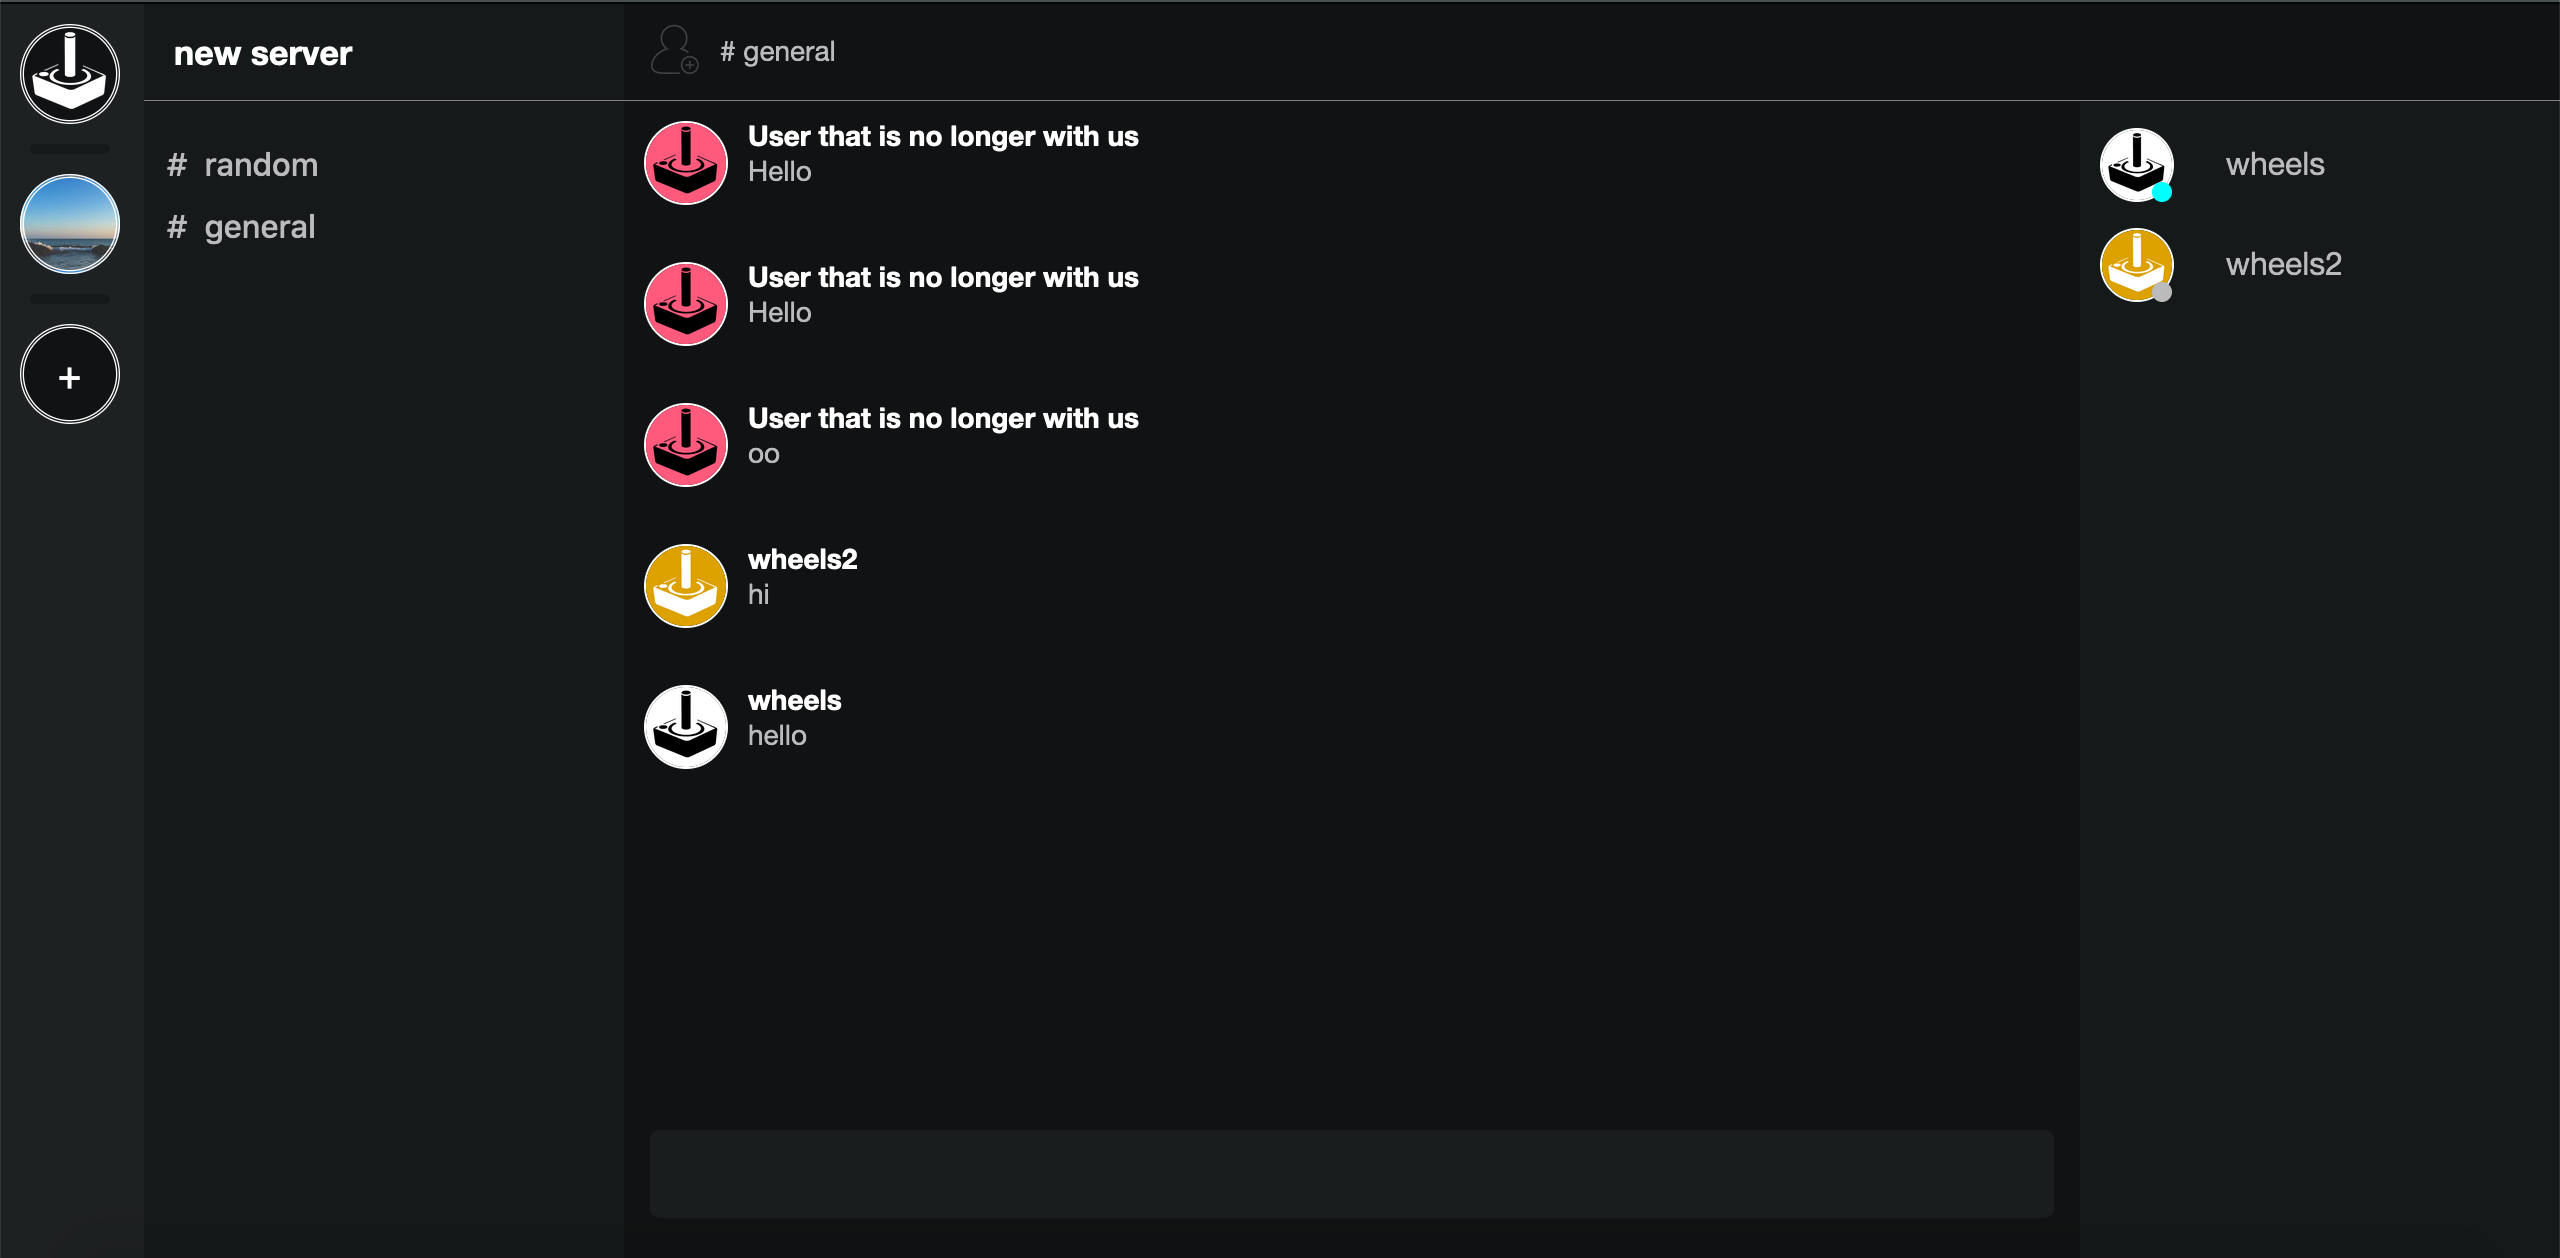
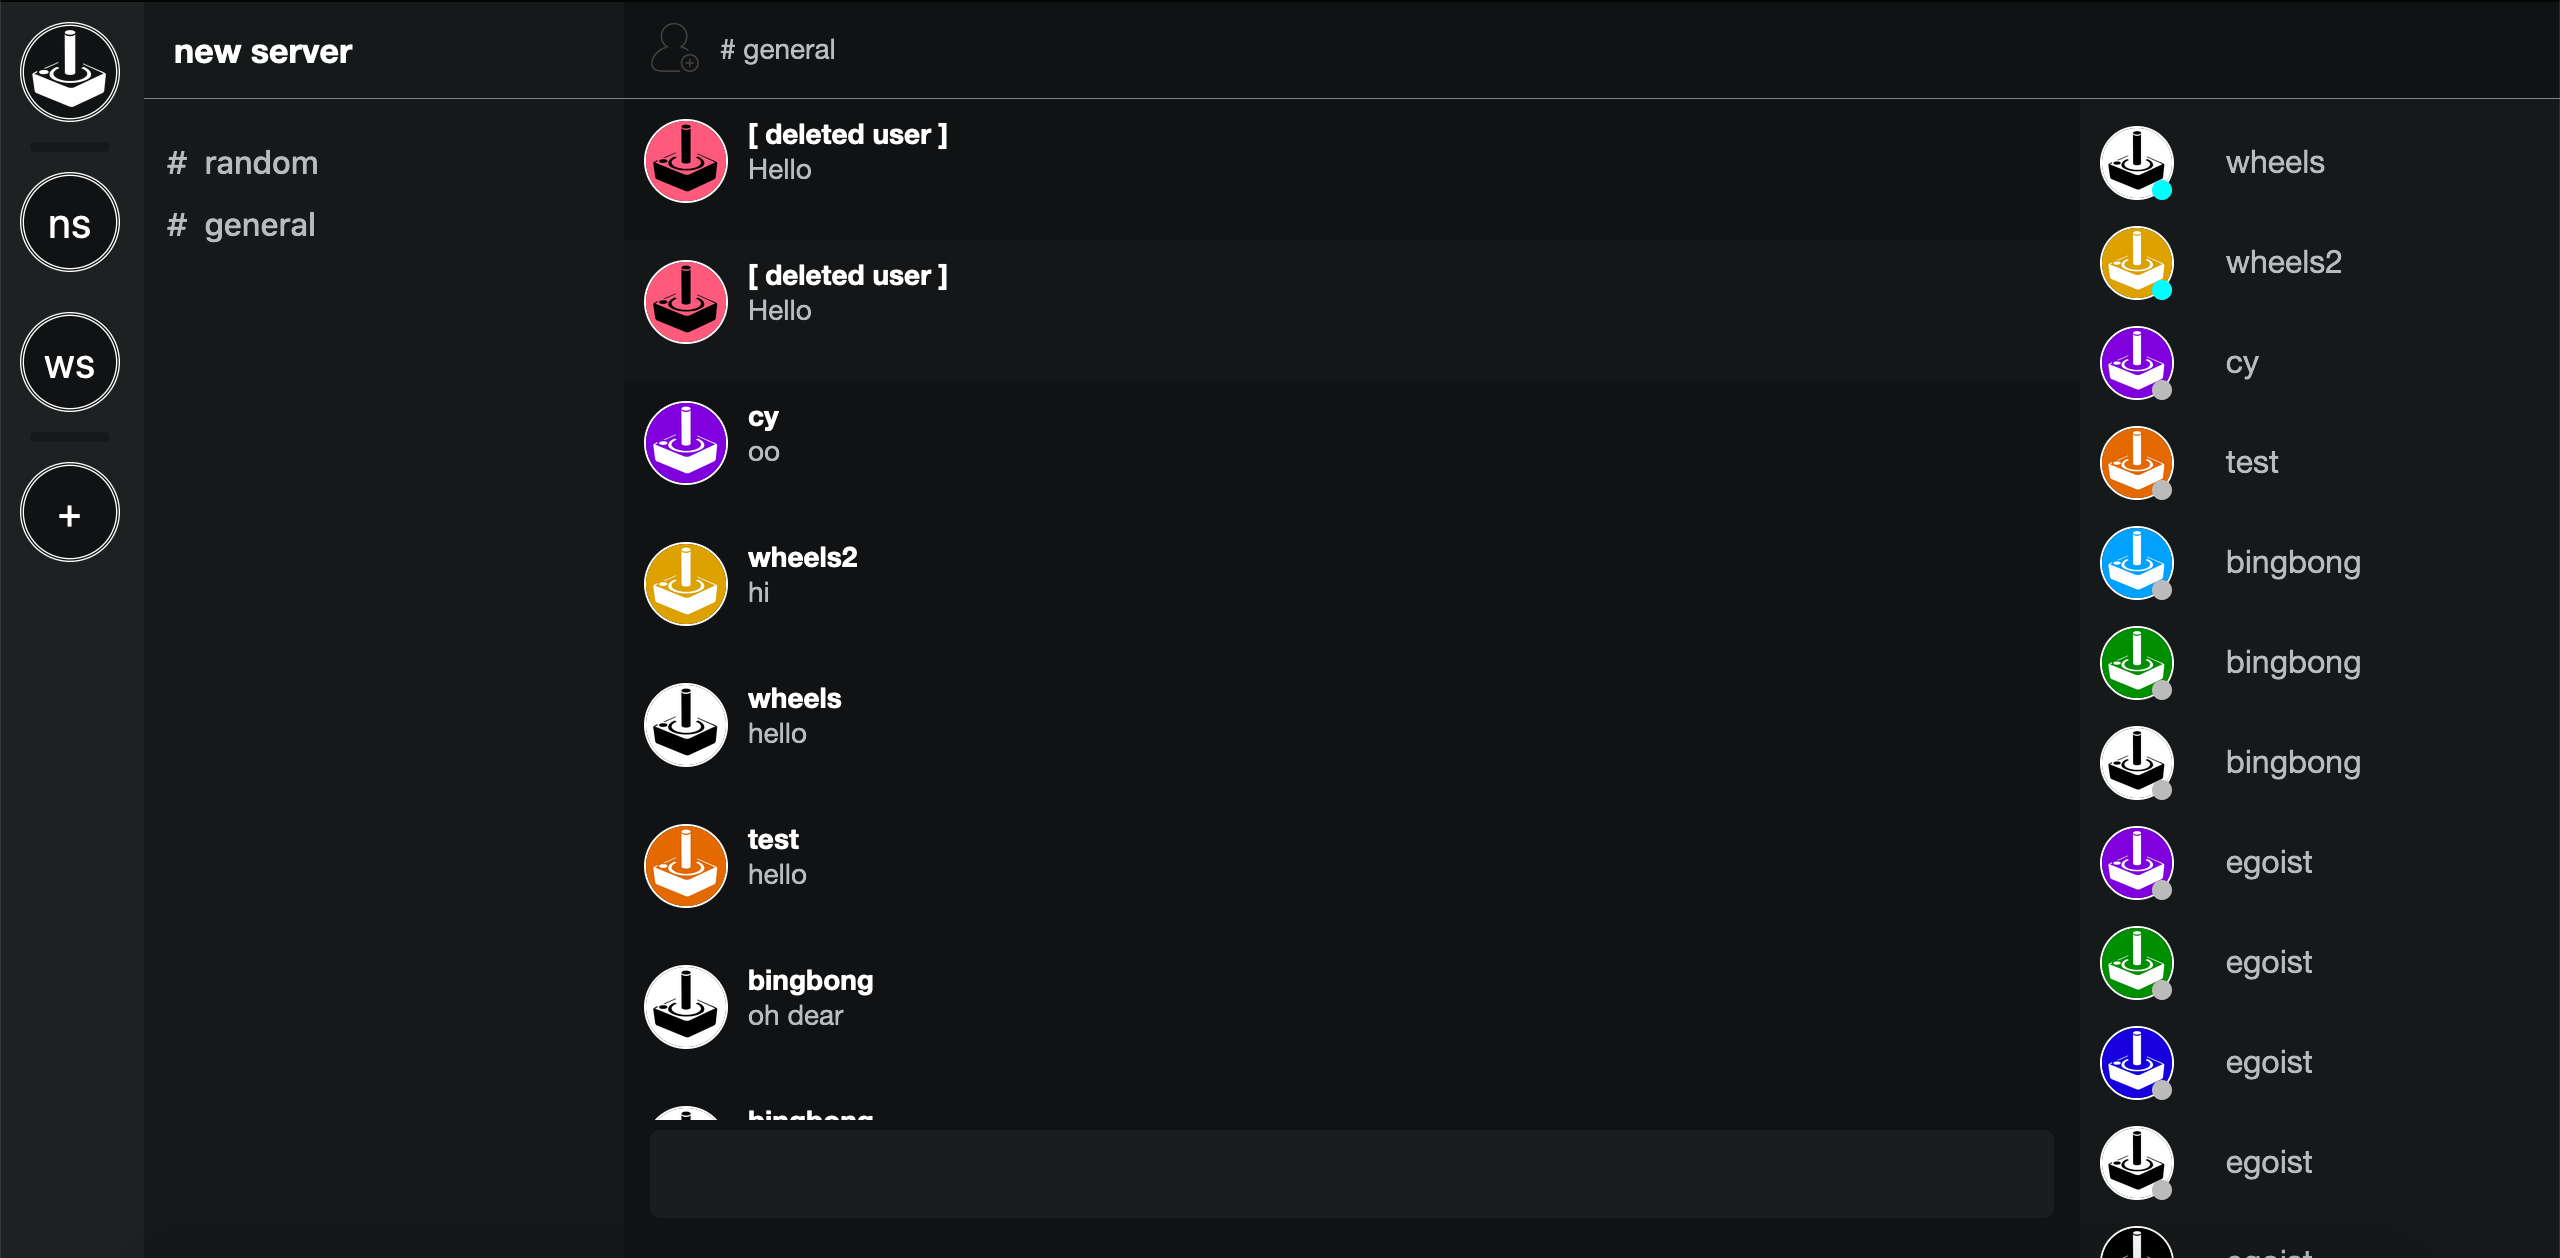
make new server(s)

diff --git a/router/client.js b/router/client.js
@@ -22,6 +22,11 @@ handlebars.registerHelper('ifBoth', function (arg1, arg2, options) {
 handlebars.registerHelper('ifEither', function (arg1, arg2, options) {
   return (arg1 || arg2) ? options.fn(this) : options.inverse(this);
 });
+handlebars.registerHelper('nameAbriviation', function (_name) {
+  let name = '';
+  _name.split(' ').forEach((i) => {name += i[0]});
+  return name;
+});
 handlebars.registerHelper({
   eq: (v1, v2) => v1 === v2,
   ne: (v1, v2) => v1 !== v2,
@@ -135,10 +140,11 @@ router.post('/register', (req, res) => {
 router.post('/create/server', upload.single('photo'), (req, res) => {
   if (req.session.user) {
     const imagePath = null;
-    if (req.file !== null && req.file !== undefined && req.file.mimetype.includes('image')) {
-      // imagePath = path.join('/img/', data.uuid) + path.extname(req.file.originalname);
-    }
+    // if (req.file !== null && req.file !== undefined && req.file.mimetype.includes('image')) {
+    //   imagePath = path.join('/img/', data.uuid) + path.extname(req.file.originalname);
+    // }
     functions.create.server(req.body.name, imagePath, req.session.user).then((server) => {
+      req.session.user.servers.push(server);
       res.status(201).json(server);
     }).catch((err) => {
       res.sendStatus(500);
@@ -172,6 +178,7 @@ router.get('/channels/:server', async (req, res) => {
 router.get('/channels/:server/:channel', async (req, res) => {
   if (req.session.user) {
     const template = handlebars.compile(fs.readFileSync(path.resolve('views/hbs/base.hbs')).toString());
+    console.log(req.session.user.servers);
     const server = req.session.user.servers.find((e) => e.id === Number(req.params.server));
     res.send(template({
       servers: req.session.user.servers,
@@ -197,7 +204,7 @@ router.get('/channels/:server/:channel/messages', async (req, res) => {
           channel.messages[i].username = info.profile.username;
           channel.messages[i].picture = info.profile.picture;
         } else {
-          channel.messages[i].username = 'User that is no longer with us';
+          channel.messages[i].username = '[ deleted user ]';
           channel.messages[i].picture = '/img/avatars/deleted.png';
         }
       }

diff --git a/views/css/main.css b/views/css/main.css
@@ -43,6 +43,7 @@ input:focus {
   background-color: var(--main-color);
 }
 .server-list {
+  overflow-y: scroll;
   background-color: var(--server-bar-color);
   width: var(--server-bar-width);
   height: 100vh;
@@ -51,7 +52,6 @@ input:focus {
   top: 0;
 }
 .server-list-scroll {
-  overflow-y: scroll;
   width: 100%;
 }
 .server-div {
@@ -248,7 +248,6 @@ input:focus {
 }
 
 .new-server {
-  height: 400px;
   background: white;
   margin: 0;
   position: absolute;

diff --git a/methods/functions.js b/methods/functions.js
@@ -13,7 +13,7 @@ module.exports = {
         id,
         name,
         picture,
-        users: (user !== null ? [{ id: user.id, nickname: null }] : []),
+        users: (user !== null ? [{ id: user.info.id, nickname: null }] : []),
         channels: [{
           name: 'general',
           id: Number(`${uuid()}${uuid()}`),

diff --git a/README.md b/README.md
@@ -15,15 +15,17 @@ Screenshot(s):
  - [x] Two channels
  - [x] Invite new users to a server
  - [x] Realtime communication
+ - [x] Create Servers
 
 ## Future (planned) Features
 
- - [ ] Create Servers
  - [ ] Create Channels
  - [ ] Direct Messaging System
  - [ ] Role System
  - [ ] Configurable Servers
  - [ ] Modify your information (as a user)
+ - [ ] Leave Servers
+ - [ ] Delete Servers
 
 ## Setup
 
